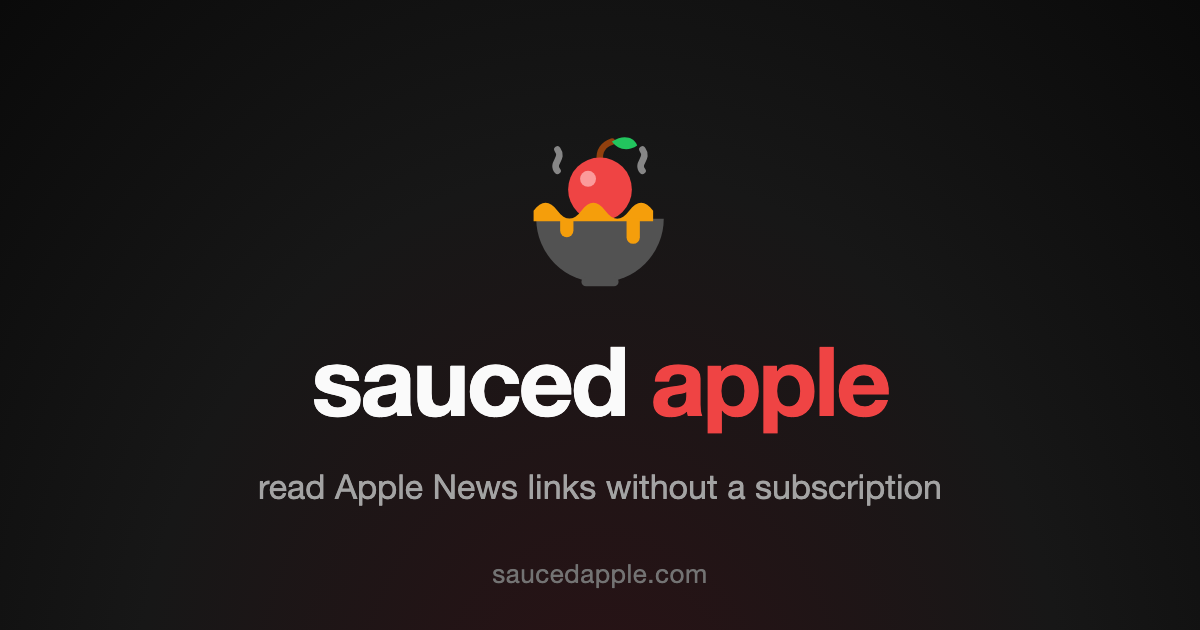
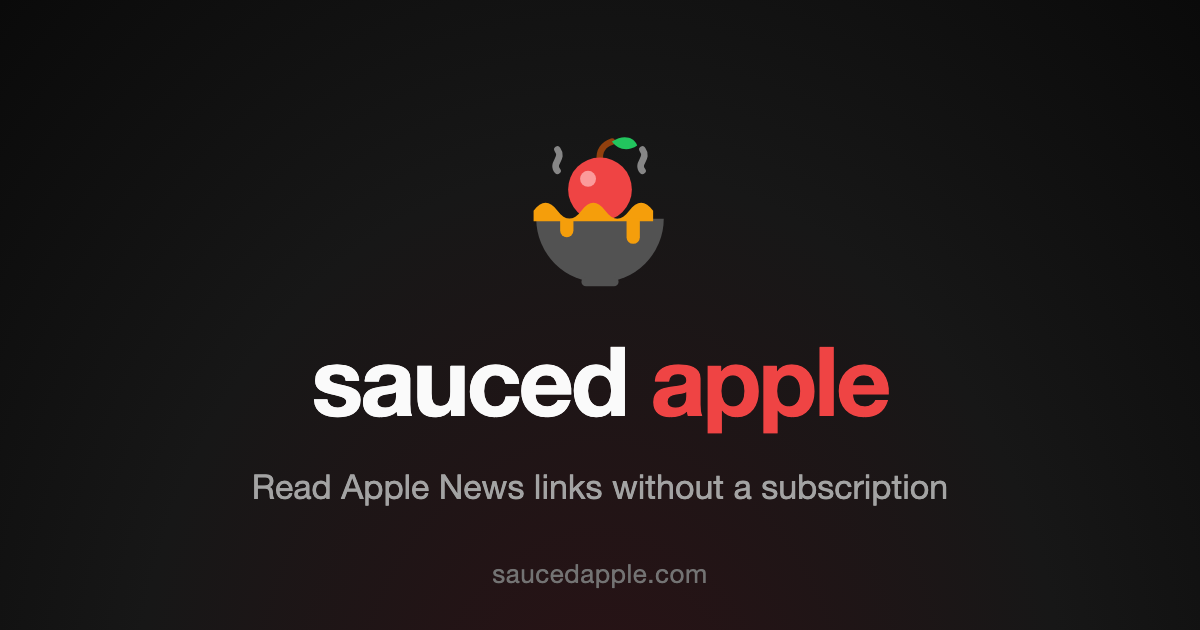
Title-case Sauced Apple in page title and OpenGraph metadata
Share previews now read "From Sauced Apple" (og:site_name) instead of
the bare domain; og-image regenerated with the capitalized tagline.
The lowercase wordmark in the header/logo art is intentional branding.

Changed region(s): [[0.185, 0.754, 0.8017, 0.8143]]

diff --git a/index.html b/index.html
@@ -20,7 +20,7 @@
         }
       })();
     </script>
-    <title>sauced apple — read Apple News links without a subscription</title>
+    <title>Sauced Apple — Read Apple News links without a subscription</title>
     <meta
       name="description"
       content="Paste an apple.news link to find free ways to read the story — the publisher's own page, public archives, or an extracted transcript."
@@ -29,8 +29,8 @@
          /?url= permalinks (worker/lib/meta.ts) — keep property/name before
          content, matching META_TAG_RE. -->
     <meta property="og:type" content="website" />
-    <meta property="og:site_name" content="sauced apple" />
-    <meta property="og:title" content="sauced apple" />
+    <meta property="og:site_name" content="Sauced Apple" />
+    <meta property="og:title" content="Sauced Apple" />
     <meta
       property="og:description"
       content="Read Apple News links without a subscription — free links, archives, and transcripts."
@@ -38,7 +38,7 @@
     <meta property="og:url" content="https://saucedapple.com/" />
     <meta property="og:image" content="https://saucedapple.com/og-image.png" />
     <meta name="twitter:card" content="summary_large_image" />
-    <meta name="twitter:title" content="sauced apple" />
+    <meta name="twitter:title" content="Sauced Apple" />
     <meta
       name="twitter:description"
       content="Read Apple News links without a subscription — free links, archives, and transcripts."

diff --git a/worker/lib/meta.test.ts b/worker/lib/meta.test.ts
@@ -35,7 +35,7 @@ describe("injectArticleMeta", () => {
 
   it("rewrites title and og tags with escaped article values", () => {
     expect(html).toContain(
-      "<title>Why Chili's Isn't Going &quot;All In&quot; &amp; More · sauced apple</title>",
+      "<title>Why Chili's Isn't Going &quot;All In&quot; &amp; More · Sauced Apple</title>",
     );
     expect(html).toContain(
       'property="og:title" content="Why Chili\'s Isn\'t Going &quot;All In&quot; &amp; More — The Wall Street Journal"',
@@ -58,8 +58,8 @@ describe("injectArticleMeta", () => {
   });
 
   it("leaves no default og values behind except site_name and card type", () => {
-    expect(html).not.toContain('content="sauced apple — read Apple News');
-    expect(html).toContain('property="og:site_name" content="sauced apple"');
+    expect(html).not.toContain('content="Sauced Apple — Read Apple News');
+    expect(html).toContain('property="og:site_name" content="Sauced Apple"');
     expect(html).toContain('name="twitter:card" content="summary_large_image"');
   });
 
@@ -77,7 +77,7 @@ describe("injectArticleMeta", () => {
         PERMALINK,
       ),
     );
-    expect(sparse).toContain('property="og:title" content="sauced apple"');
+    expect(sparse).toContain('property="og:title" content="Sauced Apple"');
     expect(sparse).toContain(
       'property="og:image" content="https://saucedapple.com/og-image.png"',
     );

diff --git a/worker/routes/root.test.ts b/worker/routes/root.test.ts
@@ -47,7 +47,7 @@ describe("handleRoot", () => {
       makeDeps({ calls: [], routes: {} }),
     );
     const html = await response.text();
-    expect(html).toContain('property="og:title" content="sauced apple"');
+    expect(html).toContain('property="og:title" content="Sauced Apple"');
   });
 
   it("injects article meta for a valid resolvable permalink", async () => {
@@ -70,7 +70,7 @@ describe("handleRoot", () => {
       makeDeps(upstream),
     );
     const html = await response.text();
-    expect(html).toContain('property="og:title" content="sauced apple"');
+    expect(html).toContain('property="og:title" content="Sauced Apple"');
     expect(upstream.calls).toHaveLength(0);
   });
 
@@ -85,6 +85,6 @@ describe("handleRoot", () => {
       makeDeps(upstream),
     );
     const html = await response.text();
-    expect(html).toContain('property="og:title" content="sauced apple"');
+    expect(html).toContain('property="og:title" content="Sauced Apple"');
   });
 });

diff --git a/e2e/og.spec.ts b/e2e/og.spec.ts
@@ -12,7 +12,7 @@ test("the root page serves the site-default OpenGraph tags", async ({
   request,
 }) => {
   const html = flat(await (await request.get("/")).text());
-  expect(html).toContain('property="og:title" content="sauced apple"');
+  expect(html).toContain('property="og:title" content="Sauced Apple"');
   expect(html).toContain('property="og:type" content="website"');
 });
 
@@ -37,6 +37,6 @@ test("an invalid permalink falls back to the site-default tags", async ({
   const html = flat(
     await (await request.get("/?url=https://example.com/nope")).text(),
   );
-  expect(html).toContain('property="og:title" content="sauced apple"');
+  expect(html).toContain('property="og:title" content="Sauced Apple"');
   expect(html).toContain('property="og:type" content="website"');
 });

diff --git a/worker/lib/meta.ts b/worker/lib/meta.ts
@@ -42,7 +42,7 @@ export function injectArticleMeta(
   article: ResolveResponse,
   permalinkUrl: string,
 ): string {
-  const title = article.title ?? "sauced apple";
+  const title = article.title ?? "Sauced Apple";
   const fullTitle = article.publisher
     ? `${title} — ${article.publisher}`
     : title;
@@ -52,7 +52,7 @@ export function injectArticleMeta(
   const image = article.image ?? "https://saucedapple.com/og-image.png";
 
   let out = html;
-  out = setTitle(out, `${title} · sauced apple`);
+  out = setTitle(out, `${title} · Sauced Apple`);
   out = setMeta(out, "name", "description", description);
   out = setMeta(out, "property", "og:type", "article");
   out = setMeta(out, "property", "og:title", fullTitle);
